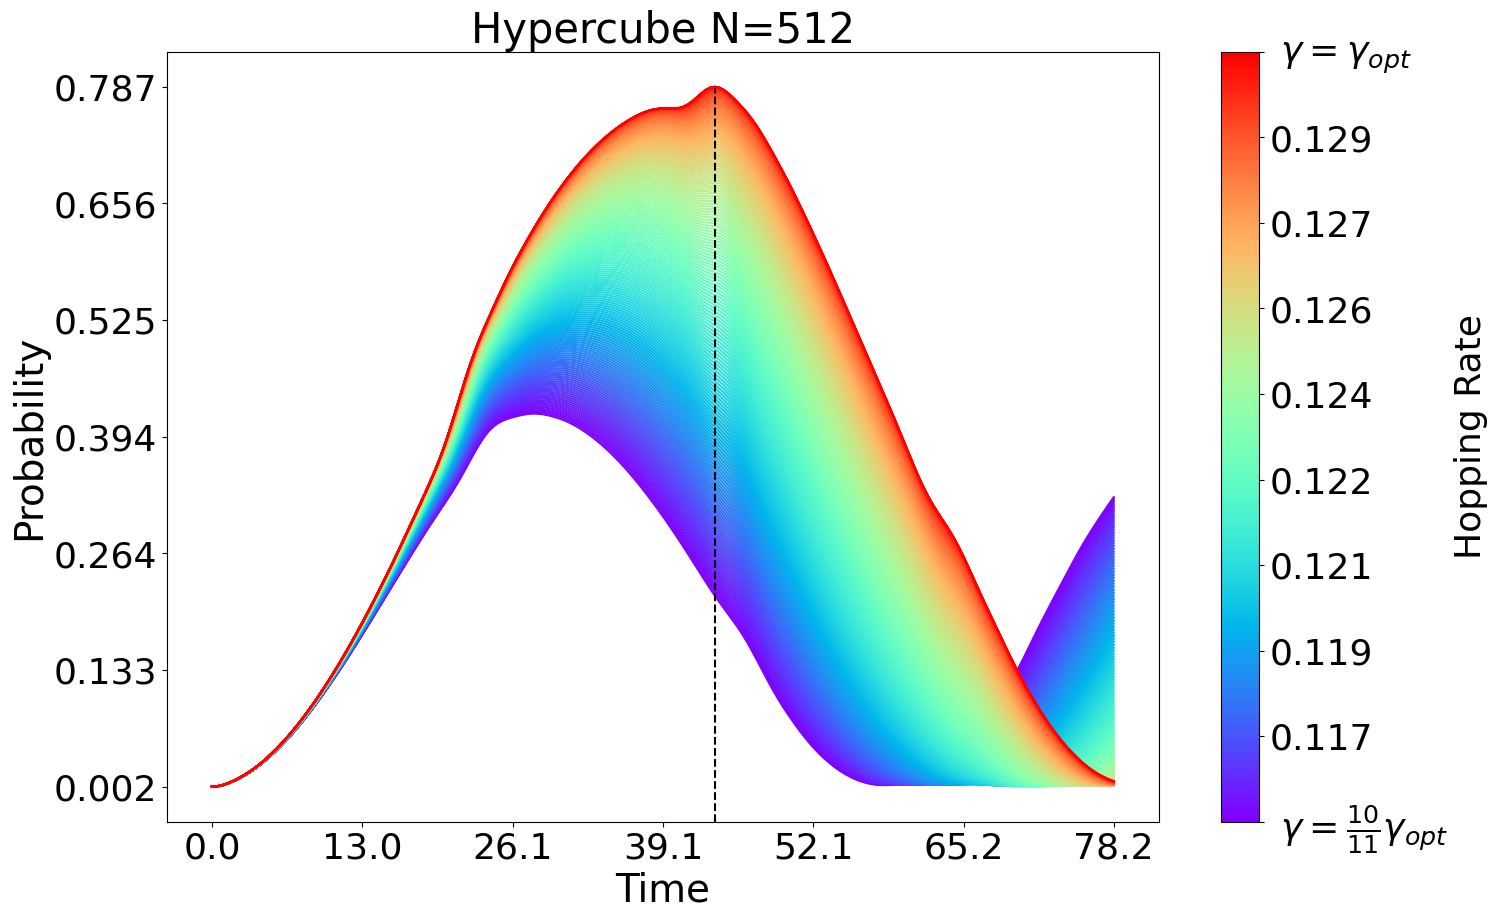
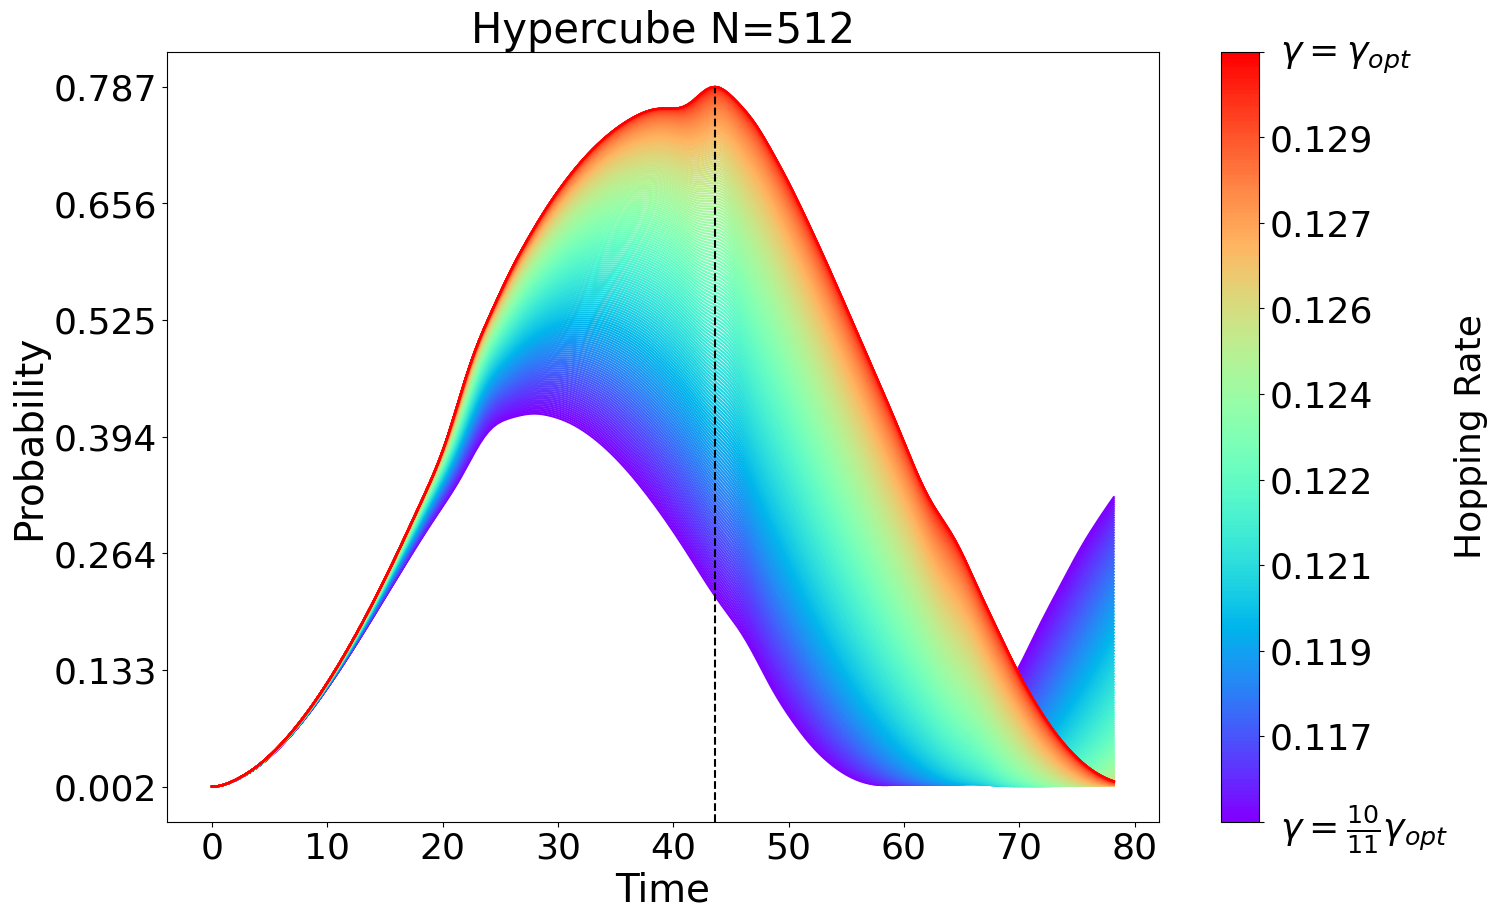
Oriented figures.

diff --git a/Notebook/run_Dynamics-OrientedLine.py b/Notebook/run_Dynamics-OrientedLine.py
@@ -1,0 +1,137 @@
+from qwak.qwak import QWAK
+import networkx as nx
+import numpy as np
+import matplotlib as mpl
+from matplotlib import pyplot as plt
+import scipy.special as sp
+from scipy.linalg import expm
+import sympy as simp
+from utils.plotTools import plot_qwak
+import os
+import shutil
+
+SCRIPT_DIR = os.getcwd()
+
+def inf_line_bessel_oriented10(k,nx,t,alpha,theta,gamma,l):
+    domain = np.arange(0, nx) - nx//2
+    prob = np.zeros([nx,1], dtype='complex')
+    for x in range(1,nx):
+        prob[x,0] = ( (np.cos(theta)**2) * (sp.jv(domain[x] + k, 2*t)**2)
+                     + (np.sin(theta)**2) * (sp.jv(domain[x] - k, 2*t)**2)
+                     + 2*((-1)**k)*np.cos(2*alpha*k + gamma)*np.cos(theta)*np.sin(theta)*sp.jv(domain[x] + k, 2*t)*sp.jv(domain[x] - k, 2*t))
+
+    return prob
+
+def getMultipleProbs(k,n,theta,l,gamma,alphaList,timeList):
+    timeListList = [timeList]*len(alphaList)
+    probListAux = []
+    probList = []
+
+    for alpha in alphaList:
+        for t in timeList:
+            psi_oriented = inf_line_bessel_oriented10(k,n,t,alpha,theta,gamma,l)
+            probListAux.append(np.sum(psi_oriented[n//2-k-1:n//2+k+2]))
+        probList.append(probListAux)
+        probListAux = []
+
+    return probList
+
+def getWeightedGraph(graph,weight):
+    revGraph = graph.reverse()
+    for u,v,d in graph.edges(data=True):
+        d["weight"] = weight
+    for u,v,d in revGraph.edges(data=True):
+        d["weight"] = np.conj(weight)
+    return nx.compose(graph,revGraph)
+
+def multiple_oriented_walks(N,baseGraph,alphaList,initCond):
+    probList = []
+    for alpha in alphaList:
+        weight = np.exp(1j*alpha)
+        graph = getWeightedGraph(baseGraph,weight)
+        qw = QWAK(graph)
+        qw.runWalk(time=t,customStateList=initCond)
+        probList.append(qw.getProbVec())
+    return probList
+
+n = 9
+N=2**n
+print(N)
+
+alpha=np.pi/2
+alphaList = [0, np.pi/4, np.pi/2]
+alphaLabelList = [r'$0$',r'$\frac{\pi}{4}$',r'$\frac{\pi}{2}$']
+
+baseGraph = nx.path_graph(N,create_using=nx.DiGraph)
+
+k = 3
+if k > 0:
+    theta=np.pi/4
+else:
+    theta = np.pi/2
+    
+l = 0
+gamma = l * np.pi
+
+t = 110
+initCond = [(N//2-k,np.cos(theta)),(N//2+k,np.exp(1j*gamma)*np.sin(theta))]
+
+print(np.cos(theta))
+print(N//2-k)
+print(N//2+k)
+
+probMatrix = multiple_oriented_walks(N,baseGraph,alphaList,initCond)
+
+
+node_value_matrix = [list(range(0,N))]*len(probMatrix)
+params = {
+    'font_size': 24,
+    'figsize': (16, 10),
+    'plot_title': f'Directed N={N}',
+    'x_label': 'Nodes',
+    'y_label': "Probability",
+    'legend_labels': alphaLabelList,
+    'legend_loc': "best",
+    'legend_title': r'$\alpha$',
+    'legend_ncol': 3,
+    'color_list': ['#0000FF', '#008000', '#525252'],
+    'line_style_list': ['--', '-', '-.'],
+    'save_path': f'Output/OrientedDynamics/orientedDynamics_N{N}_NWALKS{len(alphaList)}_Alphas{str([round(a, 2) for a in alphaList]).replace(", ", "-").replace("[", "").replace("]", "")}_TMAX{round(t)}.png',
+    'use_loglog': False,
+    'use_cbar': False,
+    'cbar_label': None,
+    'cbar_ticks': None,
+    'cbar_tick_labels': None,
+    'x_lim': None,
+    # 'x_num_ticks': 7,
+    'y_num_ticks': 7,
+    'x_round_val': 1,
+    'y_round_val': 3,
+    'title_font_size': 46,
+    'xlabel_font_size': 40,
+    'ylabel_font_size': 40,
+    'legend_font_size': 36,
+    'legend_title_font_size': 38,
+    'tick_font_size': 36,
+}
+
+output_dir = os.path.normpath(os.path.join(SCRIPT_DIR, 'Notebook', "Output", "OrientedDynamics"))
+if not os.path.exists(output_dir):
+    os.makedirs(output_dir)
+
+save_path = os.path.join(output_dir, f'orientedDynamics_N{N}_NWALKS{len(alphaList)}_Alphas{str([round(a, 2) for a in alphaList]).replace(", ", "-").replace("[", "").replace("]", "")}_TMAX{round(t)}.png')
+
+params['save_path'] = save_path
+
+plot_qwak(x_value_matrix=node_value_matrix, y_value_matrix=probMatrix, **params)
+
+copy_to_latex = input("Do you want to copy the generated image to the LaTeX project? (y/n): ").strip().lower()
+if copy_to_latex == 'y':
+    latex_project_path = os.path.normpath(os.path.join(
+        SCRIPT_DIR,
+        "../QWAK-Paper_Revised/img/newFigures"
+    ))
+    shutil.copy(params['save_path'], latex_project_path)
+    print(f"Image copied to {latex_project_path}")
+else:
+    print("Image not copied.")

diff --git a/Notebook/run_Searching-Complete.py b/Notebook/run_Searching-Complete.py
@@ -8,6 +8,8 @@ import os
 import copy
 import shutil
 
+SCRIPT_DIR = os.getcwd()
+
 def write_nested_list_to_file(file_path, nested_lst):
     """
     Write a nested list of elements to a text file.
@@ -84,7 +86,6 @@ markedElementsMatrix = [
     [(x, -1) for x in range(0, N//4)]
 ]
 
-SCRIPT_DIR = os.getcwd()
 dataset_dir = os.path.normpath(os.path.join(SCRIPT_DIR, 'Notebook', "Datasets", "CompleteSearch"))
 output_dir = os.path.normpath(os.path.join(SCRIPT_DIR, 'Notebook', "Output", "CompleteSearch"))
 

diff --git a/Notebook/run_Searching-Hypercube.py b/Notebook/run_Searching-Hypercube.py
@@ -167,7 +167,7 @@ params = {
     'cbar_tick_labels': [r' $\gamma = \frac{10}{11}\gamma_{opt}$'] + [f'{round(x, 3)}' for x in np.linspace(gammaMin, gamma, cbar_num_ticks - 2).tolist()] + [r' $\gamma = \gamma_{opt}$'],
     'cbar_num_ticks': cbar_num_ticks,
     'x_lim': None,
-    'x_num_ticks': 7,
+    # 'x_num_ticks': 7,
     'y_num_ticks': 7,
     'x_round_val': 1,
     'y_round_val': 3,
